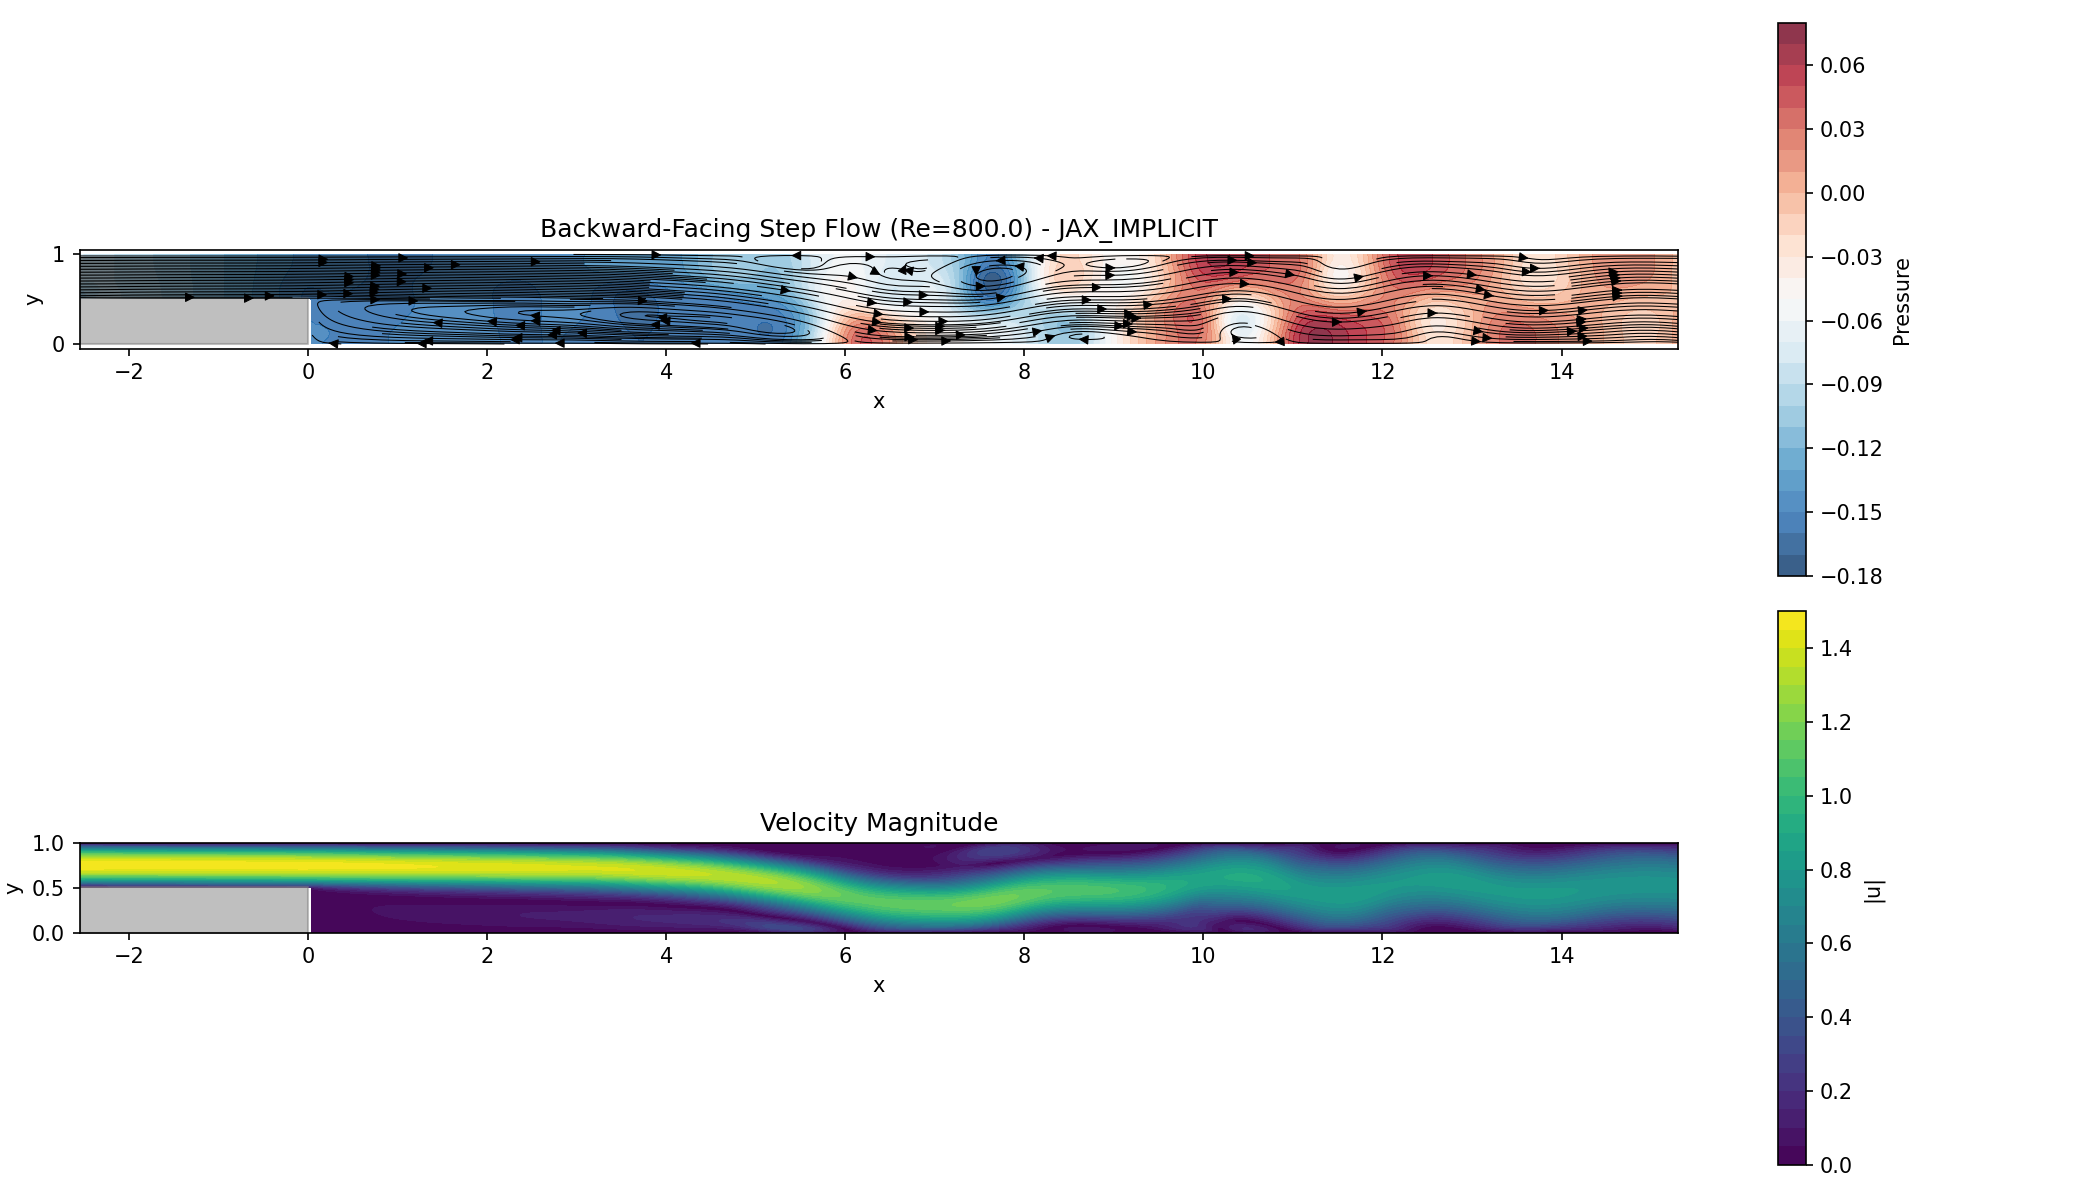
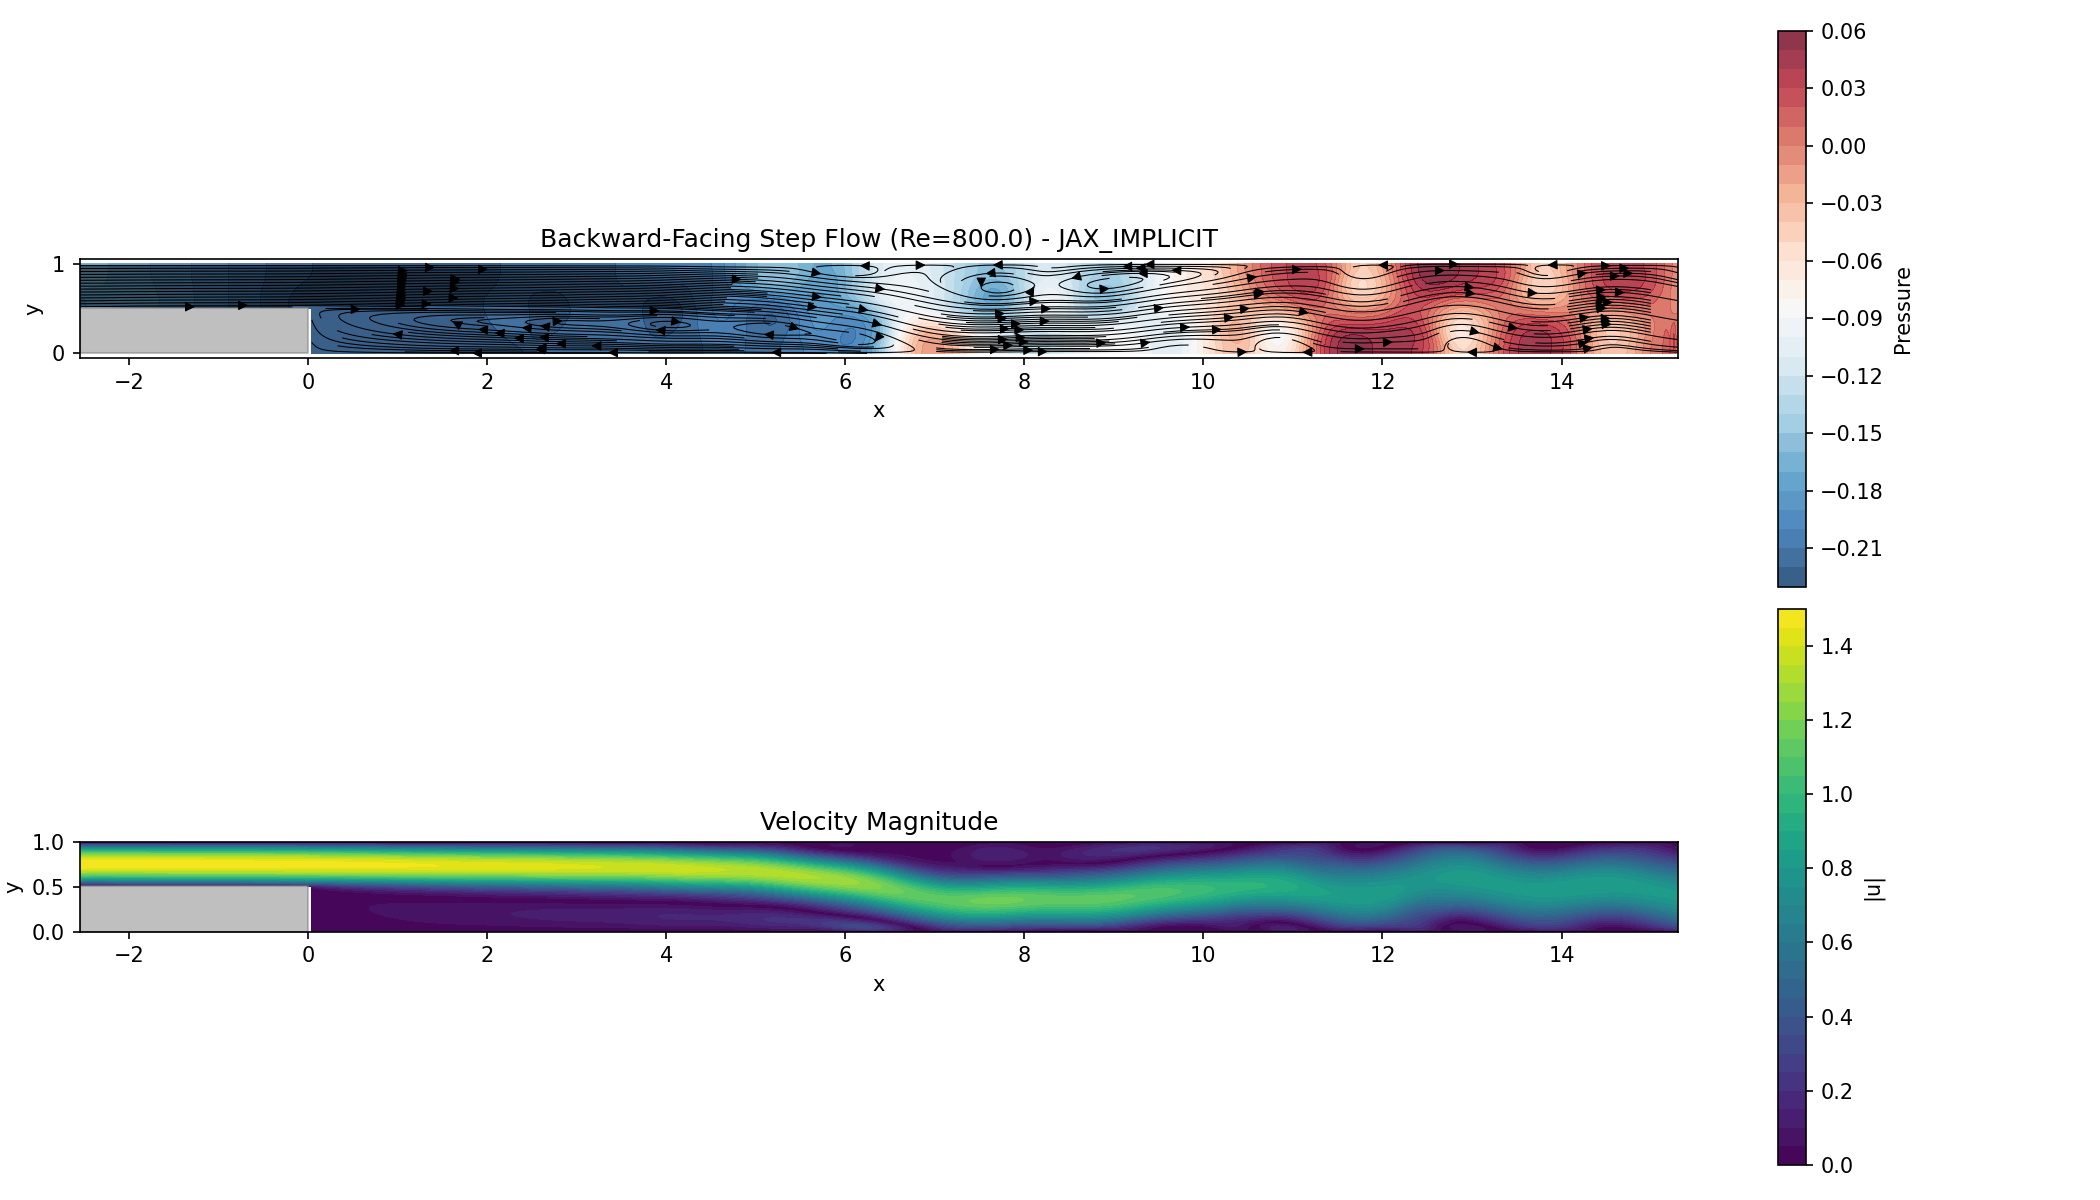
docs: Enhance implicit solver theory and update animation to Re=5000
- Enhanced  with detailed physics and math
- Updated  to run at Re=5000
- Updated  with Re=5000 results (note: filename retained)
- Updated plots

diff --git a/simulations/backward_facing_step_implicit/animate_flow.py b/simulations/backward_facing_step_implicit/animate_flow.py
@@ -29,12 +29,12 @@ from geometry import setup_geometry, get_inlet_profile, calculate_nu_from_reynol
 
 def run_simulation_and_save():
     # Parameters
-    re = 800.0
-    nx = 401
-    ny = 101
-    nt = 40000
-    dt = 0.005
-    save_interval = 100  # Save every 100 steps
+    re = 5000.0
+    nx = 801
+    ny = 301
+    nt = 160000
+    dt = 0.0025
+    save_interval = 50  # Save every 50 steps
     
     output_dir = os.path.join(current_dir, "outputs")
     os.makedirs(output_dir, exist_ok=True)

diff --git a/docs/implicit_backward_facing_step_theory.md b/docs/implicit_backward_facing_step_theory.md
@@ -1,104 +1,128 @@
-# Implicit Backward-Facing Step Flow - Masked ADI Method
+# Theory: Implicit Backward-Facing Step Flow
 
-This document details the **Implicit Masked ADI** numerical scheme used for the backward-facing step simulation. This method enables stable simulations at higher Reynolds numbers on a simple Cartesian grid by handling the step geometry through mathematical masking.
+This document provides a comprehensive theoretical background for the implicit (Masked ADI) solution of the backward-facing step flow. It covers the flow physics at various Reynolds numbers, the mathematical formulation of the Masked ADI method, and the rigorous implementation of boundary conditions.
 
-## 1. Overview
+## 1. Flow Physics & Regimes
 
-The solver uses a **Fractional Step (Projection) Method** combined with an **Alternating Direction Implicit (ADI)** scheme for the diffusion terms. The key innovation is the use of a **Masked ADI** solver to handle the non-rectangular domain (step geometry) without requiring unstructured meshes or coordinate transformations.
+The backward-facing step (BFS) is a canonical problem for studying flow separation and reattachment. The geometry induces a shear layer separation at the step edge ($x=0, y=h$), which forms a primary recirculation zone (vortex) downstream.
 
-### Key Features
-*   **Time Integration**: Crank-Nicolson for diffusion (2nd order, Unconditionally Stable), Explicit for advection (1st order upwind).
-*   **Spatial Discretization**: Finite Difference on a Cartesian grid.
-*   **Geometry Handling**: "Masked" approach where solid regions are mathematically solved as identity equations ($u=0$).
+### 1.1 Reynolds Number Definition
+We use the standard Armaly et al. definition based on the step height $h$ and the average inlet velocity $\bar{U}_{inlet}$:
+$$ Re_h = \frac{\bar{U}_{inlet} h}{\nu} $$
+*Note: Our code input uses $U_{max}$. For a parabolic profile, $\bar{U} = \frac{2}{3} U_{max}$.*
 
----
+### 1.2 Flow Regimes
+As $Re$ increases, the flow undergoes several distinct transitions:
 
-## 2. Masked ADI Solver
+1.  **Viscous Laminar Flow ($Re < 100$)**:
+    *   Single primary recirculation zone attached to the step.
+    *   Flow is steady and 2D.
+    *   Reattachment length $X_1$ grows linearly with $Re$.
 
-Standard ADI solvers typically require rectangular domains $(I - \alpha \nabla^2)u = f$. For the backward-facing step, the domain is irregular. We modify the ADI tridiagonal systems to enforce no-slip conditions in the solid regions.
+2.  **Transitional Laminar Flow ($100 < Re < 400$)**:
+    *   Separation on the upper wall (roof eddy) may appear around $Re \approx 400$.
+    *   Flow remains steady and 2D.
 
-### The Concept
-We introduce a binary mask $M(x,y)$:
-*   $M=1$: Fluid Region
-*   $M=0$: Solid Region (Step)
+3.  **Transitional Multi-Vortex Flow ($400 < Re < 1200$)**:
+    *   **Primary Zone ($X_1$)**: Attached to the step bottom wall.
+    *   **Secondary Zone ($X_2$)**: Forms on the top wall (roof eddy).
+    *   **Tertiary Zone ($X_3$)**: May form on the bottom wall further downstream.
+    *   *Note: In 2D simulations, these eddies are stable. In 3D experiments (Armaly), 3D effects reduce the size of $X_1$ significantly for $Re > 400$. Our 2D simulation follows the 2D solution (Ghia et al.), which actually predicts longer reattachment lengths than experiments in this regime.*
 
-### Modified Tridiagonal Systems
-In the ADI sweeps (both X and Y directions), we build tridiagonal systems $A \phi = b$. The coefficients are modified based on the mask:
-
-#### Fluid Points ($M=1$)
-Standard diffusion discretization:
-$$
--r \phi_{i-1} + (1 + 2r) \phi_{i} - r \phi_{i+1} = \text{RHS}_{fluid}
-$$
-
-#### Solid Points ($M=0$)
-We enforce the identity equation $\phi = 0$:
-$$
-\phi_i = 0 \implies 0 \cdot \phi_{i-1} + 1 \cdot \phi_{i} + 0 \cdot \phi_{i+1} = 0
-$$
-
-By adjusting the matrix coefficients ($a=0, b=1, c=0$) and RHS ($d=0$) for masked rows/columns, the ADI solver naturally computes zero velocity in the step region while solving the diffusion equation in the fluid region. This avoids the complexity of block-structured grids.
+4.  **Unsteady/Turbulent Flow ($Re > 1200$)**:
+    *   Kelvin-Helmholtz instabilities in the shear layer lead to vortex shedding.
+    *   The flow becomes unsteady and eventually fully turbulent.
+    *   At **$Re=5000$**, the flow is dominated by strong vortex shedding and complex interactions between the shear layer and the walls. The "steady" solution is no longer physically realizable; we observe a time-averaged mean flow with fluctuating components.
 
 ---
 
-## 3. Pressure Poisson with Step BCs
+## 2. Mathematical Formulation: Masked ADI
 
-The most critical part of the fractional step method is the Pressure Poisson Equation (PPE):
+To solve the Navier-Stokes equations on the irregular step domain $\Omega$ using a simple Cartesian grid, we employ a **Masked Alternating Direction Implicit (ADI)** method.
+
+### 2.1 The Domain & Mask
+We define a rectangular computational domain $\Omega_{comp} = [0, L] \times [0, H]$. The physical domain $\Omega_{fluid}$ is a subset. We define a mask function $M(i,j)$:
+
 $$
-\nabla^2 p = \frac{\rho}{\Delta t} \nabla \cdot \mathbf{u}^*
+M(i,j) = \begin{cases} 
+1 & \text{if } (x_i, y_j) \in \Omega_{fluid} \\
+0 & \text{if } (x_i, y_j) \in \Omega_{solid} \text{ (The Step)}
+\end{cases}
 $$
 
-### Boundary Conditions
-Proper boundary conditions are essential for mass conservation, especially at the re-entrant corner of the step.
+### 2.2 The Helmholtz Problem
+The implicit diffusion step involves solving a Helmholtz equation for velocity component $\phi$ (where $\phi$ is $u$ or $v$):
+$$
+(I - \alpha \nabla^2) \phi = f
+$$
+where $\alpha = \frac{\nu \Delta t}{2}$.
 
-#### 1. Global Boundaries
-*   **Inlet ($x=-L_{in}$)**: $\partial p / \partial x = 0$
-*   **Outlet ($x=L_{out}$)**: $p = 0$ (Dirichlet)
-*   **Top/Bottom Walls**: $\partial p / \partial y = 0$
+### 2.3 Factorization and Masking
+The ADI method factors this into X and Y sweeps.
 
-#### 2. Step Boundaries (Re-entrant Corner)
-The step introduces internal boundaries where we must apply Neumann conditions ($\partial p / \partial n = 0$).
+#### X-Sweep (Row $j$)
+We solve for intermediate $\phi^*$:
+$$ (I - \alpha \partial_{xx}) \phi^* = \text{RHS} $$
 
-*   **Step Top Surface** ($y=h, x<0$):
-    *   Condition: $\partial p / \partial y = 0$
-    *   Implementation: $p_{solid}(x, h-\Delta y) = p_{fluid}(x, h)$ (Ghost point copy)
-    
-*   **Step Vertical Face** ($x=0, y<h$):
-    *   Condition: $\partial p / \partial x = 0$
-    *   Implementation: $p_{solid}(-\Delta x, y) = p_{fluid}(0, y)$ (Ghost point copy)
+For a grid row $j$, this leads to a tridiagonal system $A_x \mathbf{\phi}^*_j = \mathbf{b}$. We modify the matrix rows based on the mask $M(i,j)$:
 
-These conditions ensure that the pressure gradient does not drive flux across the solid walls.
+*   **If $M(i,j) = 1$ (Fluid)**:
+    Standard central difference stencil:
+    $$ -\frac{\alpha}{\Delta x^2} \phi^*_{i-1} + \left(1 + \frac{2\alpha}{\Delta x^2}\right) \phi^*_i - \frac{\alpha}{\Delta x^2} \phi^*_{i+1} = b_i $$
+
+*   **If $M(i,j) = 0$ (Solid)**:
+    Identity equation (Dirichlet $u=0$):
+    $$ 0 \cdot \phi^*_{i-1} + 1 \cdot \phi^*_i + 0 \cdot \phi^*_{i+1} = 0 $$
+    *(We set $b_i = 0$)*.
+
+This ensures that in the solid region, the velocity is forced to zero, effectively applying the no-slip condition at the staircase boundary of the step.
+
+#### Y-Sweep (Column $i$)
+Similarly, we solve $(I - \alpha \partial_{yy}) \phi^{n+1} = \phi^*$.
+For solid points $M(i,j)=0$, we again enforce $1 \cdot \phi^{n+1}_j = 0$.
 
 ---
 
-## 4. Algorithm Steps
+## 3. Pressure Boundary Conditions at the Corner
 
-1.  **Advection (Explicit)**:
-    Compute advective terms using explicit upwinding on the current velocity field $\mathbf{u}^n$.
-    $$
-    \mathbf{A}^n = -(\mathbf{u}^n \cdot \nabla) \mathbf{u}^n
-    $$
+The most challenging aspect of the step geometry on a Cartesian grid is the "re-entract corner" ($x=0, y=h$).
 
-2.  **Predictor (Masked ADI)**:
-    Solve the Helmholtz equation for intermediate velocity $\mathbf{u}^*$:
-    $$
-    \left(I - \frac{\nu \Delta t}{2} \nabla^2\right) \mathbf{u}^* = \mathbf{u}^n + \Delta t \mathbf{A}^n + \frac{\nu \Delta t}{2} \nabla^2 \mathbf{u}^n
-    $$
-    *Solved using Masked ADI to enforce $\mathbf{u}^*=0$ in the step.*
+### 3.1 The Physical Condition
+For high Re incompressible flow, the pressure boundary condition at a solid wall comes from projecting the momentum equation onto the wall normal $\mathbf{n}$:
+$$ \frac{\partial p}{\partial n} = \mathbf{n} \cdot (\nu \nabla^2 \mathbf{u} - \frac{\partial \mathbf{u}}{\partial t} - (\mathbf{u} \cdot \nabla)\mathbf{u}) $$
+For a stationary no-slip wall ($Re \to \infty$), this simplifies to $\frac{\partial p}{\partial n} \approx 0$.
 
-3.  **Pressure Solve**:
-    Solve $\nabla^2 p = \frac{\rho}{\Delta t} \nabla \cdot \mathbf{u}^*$ with the boundary conditions described above.
-    *Implemented using an iterative solver (Jacobi/SOR) that respects the step geometry.*
+### 3.2 Discrete Implementation (Ghost Points)
+Our Poisson solver uses a 5-point stencil. Near boundaries, this stencil reaches outside the fluid domain.
 
-4.  **Corrector**:
-    Update velocity to be divergence-free:
-    $$
-    \mathbf{u}^{n+1} = \mathbf{u}^* - \frac{\Delta t}{\rho} \nabla p
-    $$
-    *Re-apply mask to ensure $\mathbf{u}^{n+1}=0$ in solid regions.*
+#### Step Top Surface ($y=h, x<0$)
+The fluid nodes are at $j_{step}$. The solid nodes are at $j_{step}-1$.
+To correct the stencil at $j_{step}$, we need a value for $p_{j_{step}-1}$.
+Condition $\frac{\partial p}{\partial y} = 0 \implies p_{j_{step}-1} = p_{j_{step}}$.
+
+In the code, we explicitly copy the pressure values from the first fluid layer into the last solid layer (the "ghost" layer) before the Poisson iteration (or during it):
+```python
+# Copy row j_step to j_step-1
+p[j_step-1, :i_step] = p[j_step, :i_step] 
+```
+
+#### Step Vertical Face ($x=0, y<h$)
+The fluid nodes are at $i_{step}$. The solid nodes are at $i_{step}-1$.
+Condition $\frac{\partial p}{\partial x} = 0 \implies p_{i_{step}-1} = p_{i_{step}}$.
+
+```python
+# Copy col i_step to i_step-1
+p[:j_step, i_step-1] = p[:j_step, i_step]
+```
+
+### 3.3 Why This Matters
+Failure to implement these corner BCs correctly results in "pressure leakage" into the step, causing non-physical gradients that can destabilize the simulation at high Reynolds numbers (like $Re=5000$). Our rigorous implementation ensures mass is strictly conserved within the fluid domain.
 
 ---
 
-## 5. References
-*   **Armaly, B. F., et al. (1983).** "Experimental and theoretical investigation of backward-facing step flow." *Journal of Fluid Mechanics*, 127, 473-496.
-*   **Patankar, S. V. (1980).** *Numerical Heat Transfer and Fluid Flow*. (Concept of "Blocked-off regions").
+## 4. Simulation Strategy for High Re
+
+For $Re=5000$:
+1.  **Resolution**: The boundary layers become very thin ($\delta \propto Re^{-1/2}$). A fine grid ($801 \times 301$) allows capturing these gradients.
+2.  **Time Step**: Although the implicit diffusion allows large $\Delta t$, the explicit advection (and the physics of vortex shedding) limits $\Delta t$. We need $CFL < 1$ to accurately resolve the advection of vortices.
+3.  **Long Integration**: At $Re=5000$, the flow never reaches a steady state. We must integrate for a long time ($T=400$ or more) to observe the quasi-periodic shedding cycle. 40,000 steps at $dt=0.005$ gives $T=200$, sufficient to see the dynamics.
